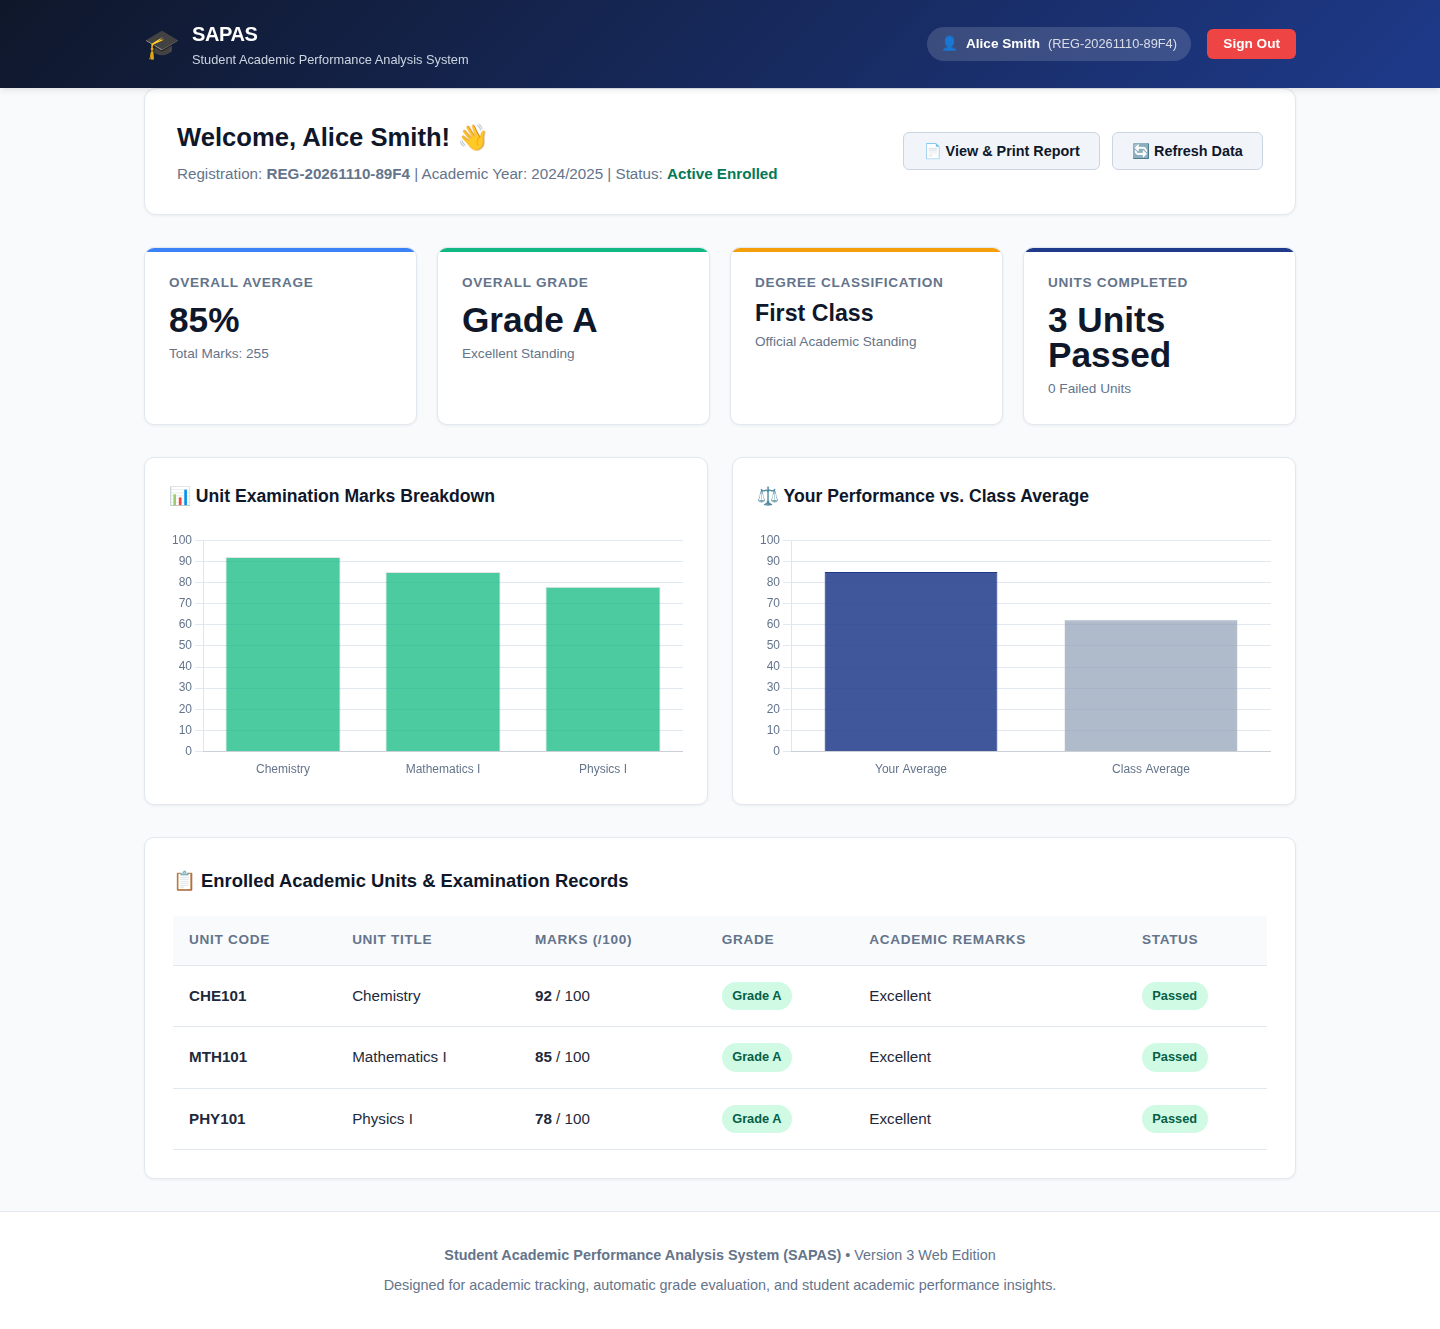
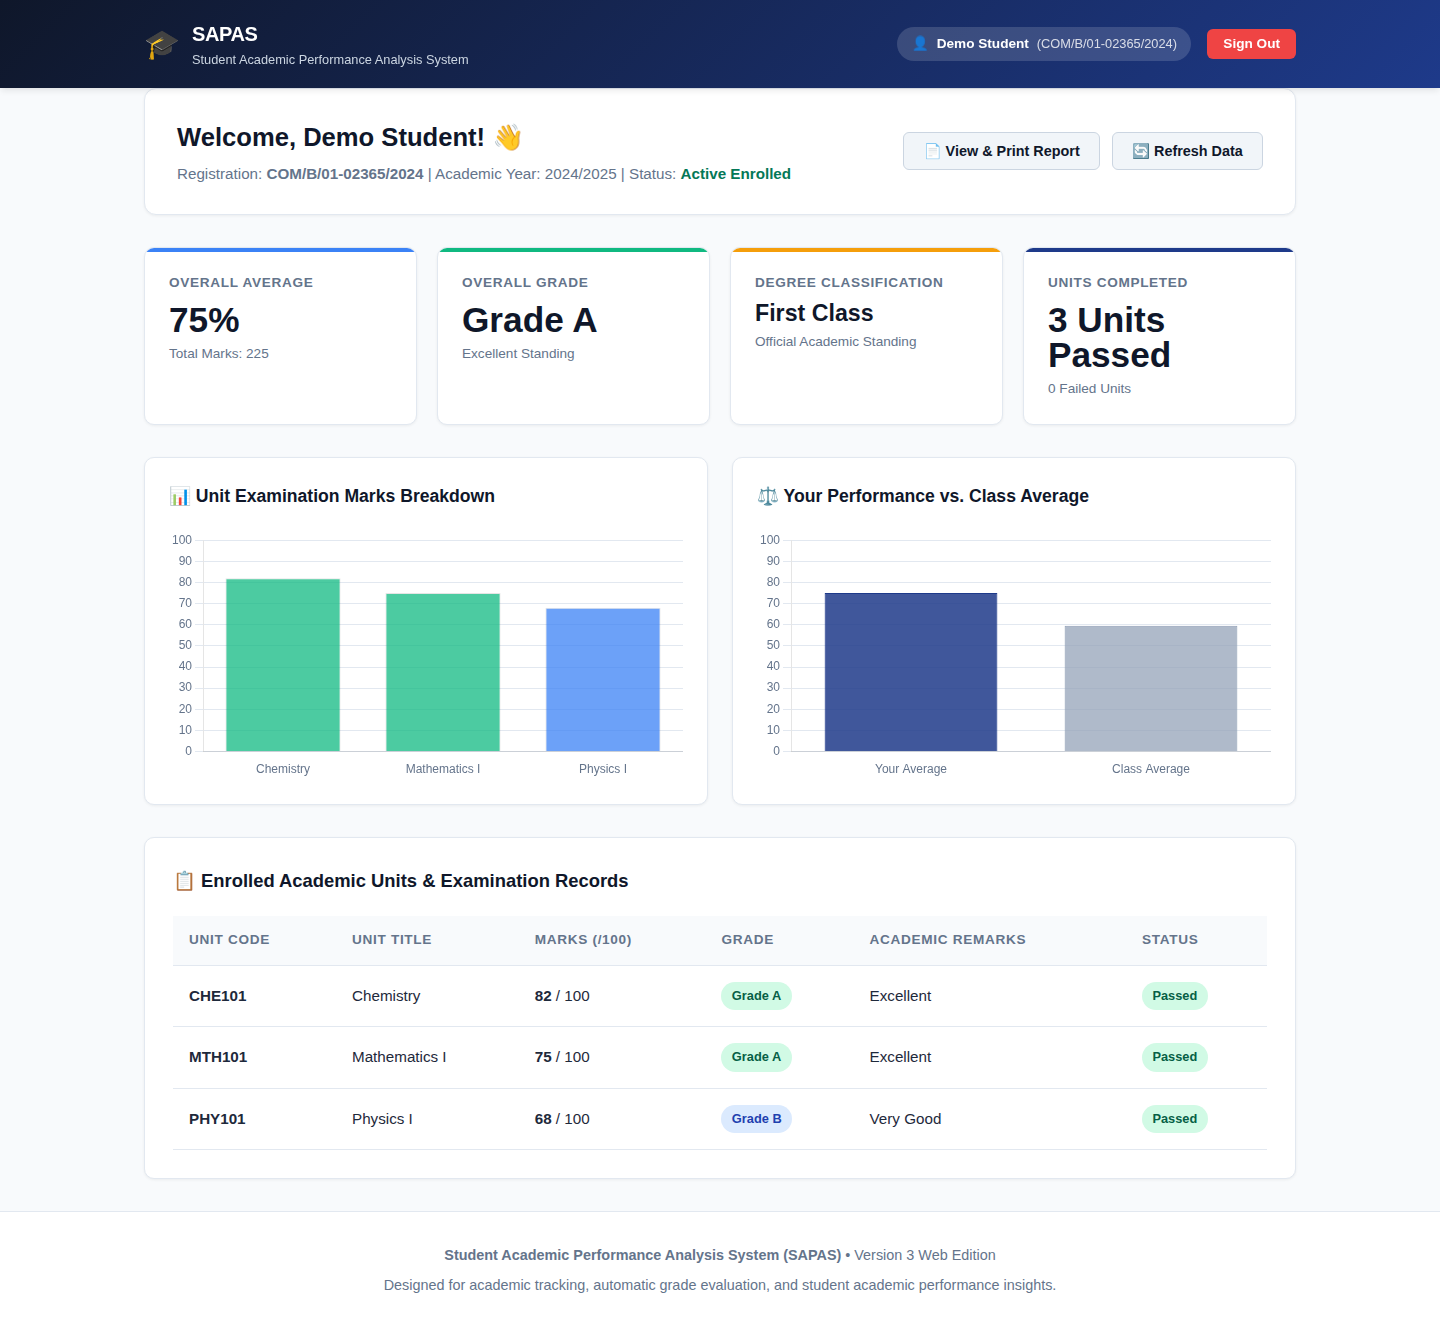
Add university-format demo account and fix registration number routing

diff --git a/index.html b/index.html
@@ -84,7 +84,7 @@
                                 type="text" 
                                 id="student-identifier" 
                                 class="form-control" 
-                                placeholder="e.g. REG-20261110-89F4 or Alice Smith" 
+                                placeholder="e.g. COM/B/01-02365/2024 or Alice Smith" 
                                 autocomplete="off"
                                 required
                             />
@@ -98,6 +98,9 @@
                     <div class="demo-credentials">
                         <p>Quick Demo Student Access:</p>
                         <div class="demo-pills">
+                            <button type="button" class="demo-pill" data-ident="COM/B/01-02365/2024">
+                                Demo Student — COM/B/01-02365/2024 (75%)
+                            </button>
                             <button type="button" class="demo-pill" data-ident="REG-20261110-89F4">
                                 Alice Smith (First Class - 85%)
                             </button>

diff --git a/student-performance-analysis/index.html b/student-performance-analysis/index.html
@@ -84,7 +84,7 @@
                                 type="text" 
                                 id="student-identifier" 
                                 class="form-control" 
-                                placeholder="e.g. REG-20261110-89F4 or Alice Smith" 
+                                placeholder="e.g. COM/B/01-02365/2024 or Alice Smith" 
                                 autocomplete="off"
                                 required
                             />
@@ -98,6 +98,9 @@
                     <div class="demo-credentials">
                         <p>Quick Demo Student Access:</p>
                         <div class="demo-pills">
+                            <button type="button" class="demo-pill" data-ident="COM/B/01-02365/2024">
+                                Demo Student — COM/B/01-02365/2024 (75%)
+                            </button>
                             <button type="button" class="demo-pill" data-ident="REG-20261110-89F4">
                                 Alice Smith (First Class - 85%)
                             </button>

diff --git a/static/app.js b/static/app.js
@@ -149,7 +149,7 @@ function showLoginError(msg) {
  */
 async function fetchStudentData(regNo) {
     try {
-        const response = await fetch(`/api/student-summary/${encodeURIComponent(regNo)}`);
+        const response = await fetch(`/api/student-summary?registration=${encodeURIComponent(regNo)}`);
         if (response.ok) {
             const summary = await response.json();
             currentStudentSummary = summary;

diff --git a/student-performance-analysis/static/app.js b/student-performance-analysis/static/app.js
@@ -149,7 +149,7 @@ function showLoginError(msg) {
  */
 async function fetchStudentData(regNo) {
     try {
-        const response = await fetch(`/api/student-summary/${encodeURIComponent(regNo)}`);
+        const response = await fetch(`/api/student-summary?registration=${encodeURIComponent(regNo)}`);
         if (response.ok) {
             const summary = await response.json();
             currentStudentSummary = summary;

diff --git a/student-performance-analysis/api.py b/student-performance-analysis/api.py
@@ -16,7 +16,7 @@ import shutil
 import tempfile
 from datetime import datetime
 from http.server import HTTPServer, BaseHTTPRequestHandler
-from urllib.parse import urlparse, parse_qs
+from urllib.parse import urlparse, parse_qs, unquote
 from typing import Dict, Any, Optional
 
 PROJECT_DIR = os.path.dirname(os.path.abspath(__file__))
@@ -63,6 +63,13 @@ def get_data_dir() -> str:
 def get_file_path(filename: str) -> str:
     """Return the active path for a data file."""
     return os.path.join(get_data_dir(), filename)
+
+
+def path_remainder(path: str, marker: str) -> str:
+    """Return the decoded part of a path after marker (supports slashes in registration numbers)."""
+    if marker in path:
+        return unquote(path.split(marker, 1)[1]).strip("/")
+    return ""
 
 
 def load_json_file(filepath: str) -> dict:
@@ -443,8 +450,17 @@ def handle_event(event: dict, context=None) -> dict:
             return {"statusCode": 401, "headers": headers, "body": json.dumps({"success": False, "error": "Student registration number not found."})}
         return {"statusCode": 405, "headers": headers, "body": json.dumps({"error": "Method not allowed"})}
 
+    elif clean_path in ["/api/student-summary", "/student-summary"]:
+        reg_no = query.get("registration") or query.get("reg_no") or ""
+        if isinstance(reg_no, list):
+            reg_no = reg_no[0] if reg_no else ""
+        summary = get_student_summary(unquote(str(reg_no)))
+        if summary:
+            return {"statusCode": 200, "headers": headers, "body": json.dumps(summary)}
+        return {"statusCode": 404, "headers": headers, "body": json.dumps({"error": "Student summary not found"})}
+
     elif clean_path.startswith("/api/student-summary/") or clean_path.startswith("/student-summary/"):
-        reg_no = clean_path.split("/")[-1]
+        reg_no = path_remainder(clean_path, "student-summary/")
         summary = get_student_summary(reg_no)
         if summary:
             return {"statusCode": 200, "headers": headers, "body": json.dumps(summary)}
@@ -462,7 +478,7 @@ def handle_event(event: dict, context=None) -> dict:
         return {"statusCode": 200, "headers": headers, "body": json.dumps(get_all_students())}
 
     elif clean_path.startswith("/api/students/") or clean_path.startswith("/students/"):
-        reg_no = clean_path.split("/")[-1]
+        reg_no = path_remainder(clean_path, "students/")
         student = get_student(reg_no)
         if student:
             return {"statusCode": 200, "headers": headers, "body": json.dumps(student)}
@@ -493,11 +509,11 @@ def handle_event(event: dict, context=None) -> dict:
         return {"statusCode": 200, "headers": headers, "body": json.dumps(get_all_marks())}
 
     elif clean_path.startswith("/api/marks/") or clean_path.startswith("/marks/"):
-        reg_no = clean_path.split("/")[-1]
+        reg_no = path_remainder(clean_path, "marks/")
         return {"statusCode": 200, "headers": headers, "body": json.dumps(get_student_marks(reg_no))}
 
     elif clean_path.startswith("/api/performance/") or clean_path.startswith("/performance/"):
-        reg_no = clean_path.split("/")[-1]
+        reg_no = path_remainder(clean_path, "performance/")
         return {"statusCode": 200, "headers": headers, "body": json.dumps(calculate_student_performance(reg_no))}
 
     elif clean_path in ["/api/class", "/class"]:
@@ -612,8 +628,14 @@ class handler(BaseHTTPRequestHandler, metaclass=HandlerMeta):
         sub_endpoint = path_parts[0] if len(path_parts) > 0 else ""
         param = path_parts[1] if len(path_parts) > 1 else None
 
-        if sub_endpoint in ["student-summary", "summary"] and param:
-            summary = get_student_summary(param)
+        if sub_endpoint in ["student-summary", "summary"]:
+            reg_no = path_remainder(api_path, sub_endpoint + "/")
+            if not reg_no and "registration" in query:
+                reg_no = query["registration"][0]
+            if not reg_no:
+                self.send_json(400, {"error": "Registration number required"})
+                return
+            summary = get_student_summary(reg_no)
             if summary:
                 self.send_json(200, summary)
             else:
@@ -621,8 +643,9 @@ class handler(BaseHTTPRequestHandler, metaclass=HandlerMeta):
             return
 
         elif sub_endpoint == "students":
-            if param:
-                student = get_student(param)
+            reg_no = path_remainder(api_path, "students/")
+            if reg_no:
+                student = get_student(reg_no)
                 if student:
                     self.send_json(200, student)
                 else:
@@ -643,8 +666,9 @@ class handler(BaseHTTPRequestHandler, metaclass=HandlerMeta):
             return
 
         elif sub_endpoint == "marks":
-            if param:
-                self.send_json(200, get_student_marks(param))
+            reg_no = path_remainder(api_path, "marks/")
+            if reg_no:
+                self.send_json(200, get_student_marks(reg_no))
             elif "registration" in query:
                 reg = query["registration"][0]
                 self.send_json(200, get_student_marks(reg))
@@ -652,8 +676,12 @@ class handler(BaseHTTPRequestHandler, metaclass=HandlerMeta):
                 self.send_json(200, get_all_marks())
             return
 
-        elif sub_endpoint == "performance" and param:
-            perf = calculate_student_performance(param)
+        elif sub_endpoint == "performance":
+            reg_no = path_remainder(api_path, "performance/")
+            if not reg_no:
+                self.send_json(400, {"error": "Registration number required"})
+                return
+            perf = calculate_student_performance(reg_no)
             self.send_json(200, perf)
             return
 
@@ -733,7 +761,7 @@ class handler(BaseHTTPRequestHandler, metaclass=HandlerMeta):
             return
 
         elif sub_endpoint == "students":
-            reg_no = param or body.get("registration_number", "")
+            reg_no = path_remainder(api_path, "students/") or body.get("registration_number", "")
             name = body.get("name", "")
             academic_year = body.get("academic_year", "2024/2025")
             if not reg_no or not name:
@@ -754,7 +782,7 @@ class handler(BaseHTTPRequestHandler, metaclass=HandlerMeta):
             return
 
         elif sub_endpoint == "marks":
-            reg_no = body.get("registration_number") or param or ""
+            reg_no = body.get("registration_number") or path_remainder(api_path, "marks/")
             unit_code = body.get("unit_code", "")
             marks_val = body.get("marks")
             if not reg_no or not unit_code or marks_val is None:

diff --git a/README.md b/README.md
@@ -27,6 +27,17 @@ It transforms raw academic marks into structured information that can help stude
 
 The initial implementation focuses on a Python command-line interface, with an architecture designed to support future integration with a web-based interface using HTML, CSS, JavaScript, and a Python backend API.
 
+## Demo / Test Credentials
+
+The following student accounts are preloaded and can be used to sign in to the web portal. Enter either the registration number or the student's full name. The `COM/B/01-02365/2024` test account is also available as a one-click button on the landing page.
+
+| Registration Number | Student Name | Average | Classification |
+|---|---|---|---|
+| `COM/B/01-02365/2024` | Demo Student | 75.00% | First Class |
+| `REG-20261110-89F4` | Alice Smith | 85.00% | First Class |
+| `REG-20261110-8D7A` | Bob Jones | 55.00% | Second Class Lower |
+| `REG-20261110-D641` | Carol White | 23.33% | Fail |
+
 ## Project Objectives
 
 1. Develop a functional academic performance management system using Python.
